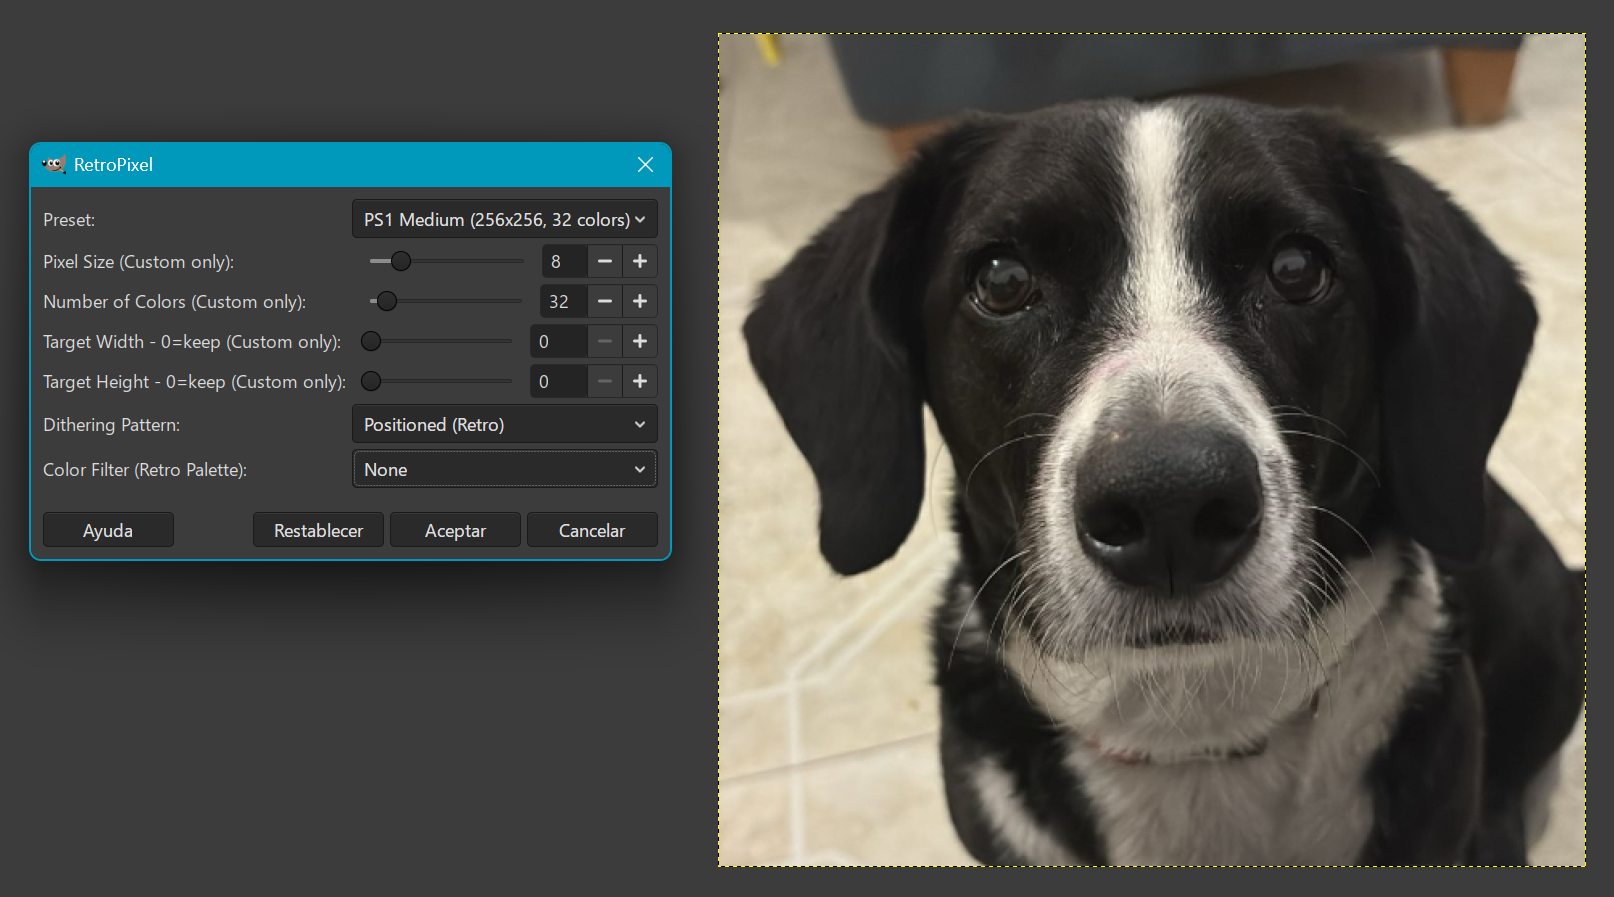
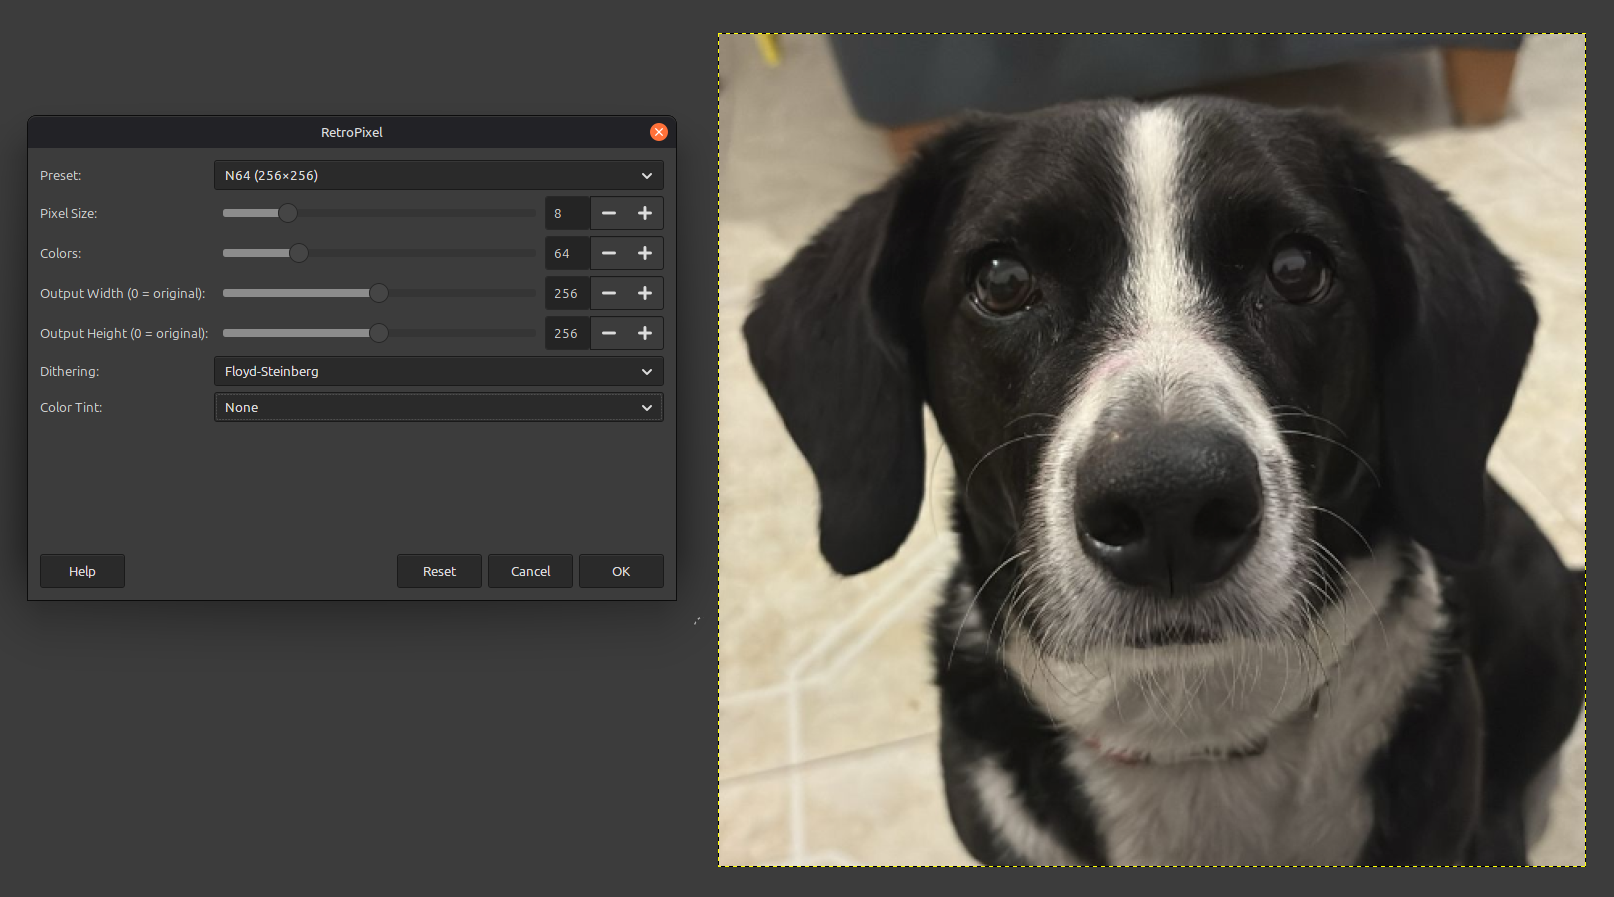
v1.1.0 change UI

diff --git a/README.md b/README.md
@@ -1,8 +1,10 @@
 # RetroPixel - GIMP Plugin
 
-GIMP plugin that applies PS1/N64 style pixelation effects, ideal for creating retro textures for 3D objects.
+![Version](https://img.shields.io/badge/version-1.1.0-blue)
+![GIMP](https://img.shields.io/badge/GIMP-3.0%2B-green)
+![License](https://img.shields.io/badge/license-GPL%20v3-orange)
 
-RetroPixel is only compatible with GIMP 3.0 or later.
+GIMP plugin that applies PS1/N64 style pixelation effects, ideal for creating retro textures for 3D objects.
 
 ## Features
 
@@ -24,13 +26,13 @@ RetroPixel is only compatible with GIMP 3.0 or later.
 
 | Parameter | Description | Range | Default |
 |-----------|-------------|-------|---------|
-| **Preset** | Quick settings (Custom/PS1 Low/PS1 Medium/N64/Extreme) | - | Custom |
-| **Pixel Size** | Size of each pixel block (Custom only) | 2-32 | 8 |
-| **Number of Colors** | Colors in the palette (Custom only) | 4-256 | 32 |
-| **Target Width** | Target width in pixels, 0=keep original (Custom only) | 0-4096 | 0 |
-| **Target Height** | Target height in pixels, 0=keep original (Custom only) | 0-4096 | 0 |
-| **Dithering Pattern** | None/Floyd-Steinberg/Positioned | - | None (Solid) |
-| **Color Filter** | Apply retro color tint (None/Red/Orange/Yellow/etc.) | - | None |
+| **Preset** | Quick settings (Custom/PS1 Low/PS1 Med/N64/Extreme) | - | Custom |
+| **Pixel Size** | Size of each pixel block (ignored with presets) | 2-32 | 8 |
+| **Colors** | Colors in the palette (ignored with presets) | 4-256 | 32 |
+| **Output Width** | Output width in pixels, 0 = original (ignored with presets) | 0-512 | 0 |
+| **Output Height** | Output height in pixels, 0 = original (ignored with presets) | 0-512 | 0 |
+| **Dithering** | None / Floyd-Steinberg / Positioned | - | None |
+| **Color Tint** | Apply retro color tint (None/Red/Orange/Yellow/etc.) | - | None |
 
 ## Usage
 
@@ -41,7 +43,7 @@ RetroPixel is only compatible with GIMP 3.0 or later.
 - Expand the option by clicking the arrow.
 - Go to **Plug-ins** and add the folder where you saved the script.
 - Restart GIMP.
-- Test RetroPixel from **Filters > Blur > RetroPixel**.
+- Test RetroPixel from **Filters > Distorts > RetroPixel**.
 
 ### Linux:
 - Download the code from the "Code" button at the top.
@@ -49,36 +51,33 @@ RetroPixel is only compatible with GIMP 3.0 or later.
 - Grant all permissions to the `RetroPixel.scm` script.
 - Copy the `RetroPixel.scm` file to the folder `~/.config/GIMP/3.0/scripts/` (make sure it matches the version of GIMP you are using).
 - Open GIMP.
-- Test RetroPixel from **Filters > Blur > RetroPixel**.
+- Test RetroPixel from **Filters > Distorts > RetroPixel**.
 
 
 ## Usage Examples
 
 ### Texture for 3D model (64x64)
 ```
+Preset: Custom
 Pixel Size: 8
-Color Depth: 32
-Dither Amount: 10
-Target Width: 64
-Target Height: 64
+Colors: 32
+Output Width: 64
+Output Height: 64
+Dithering: Floyd-Steinberg
 ```
 
 ### Intense PS1 effect
 ```
-Pixel Size: 12
-Color Depth: 16
-Dither Amount: 15
-Target Width: 0
-Target Height: 0
+Preset: PS1 Low (128×128)
+Dithering: Positioned
+Color Tint: Sepia
 ```
 
 ### Soft N64 effect
 ```
-Pixel Size: 4
-Color Depth: 64
-Dither Amount: 5
-Target Width: 256
-Target Height: 256
+Preset: N64 (256×256)
+Dithering: Floyd-Steinberg
+Color Tint: None
 ```
 
 ## Recommended Workflow for 3D Textures
@@ -86,7 +85,7 @@ Target Height: 256
 1. Prepare your original texture in high resolution
 2. Apply the RetroPixel plugin with your target texture dimensions
 3. Export as PNG or TGA
-4. Import into your 3D engine (Unity, Unreal, Blender, etc.)
+4. Import into your 3D engine (Unity, GDevelop, Blender, etc.)
 5. Set the texture filter to "Point" or "Nearest" to maintain the pixelated effect
 
 ## License
